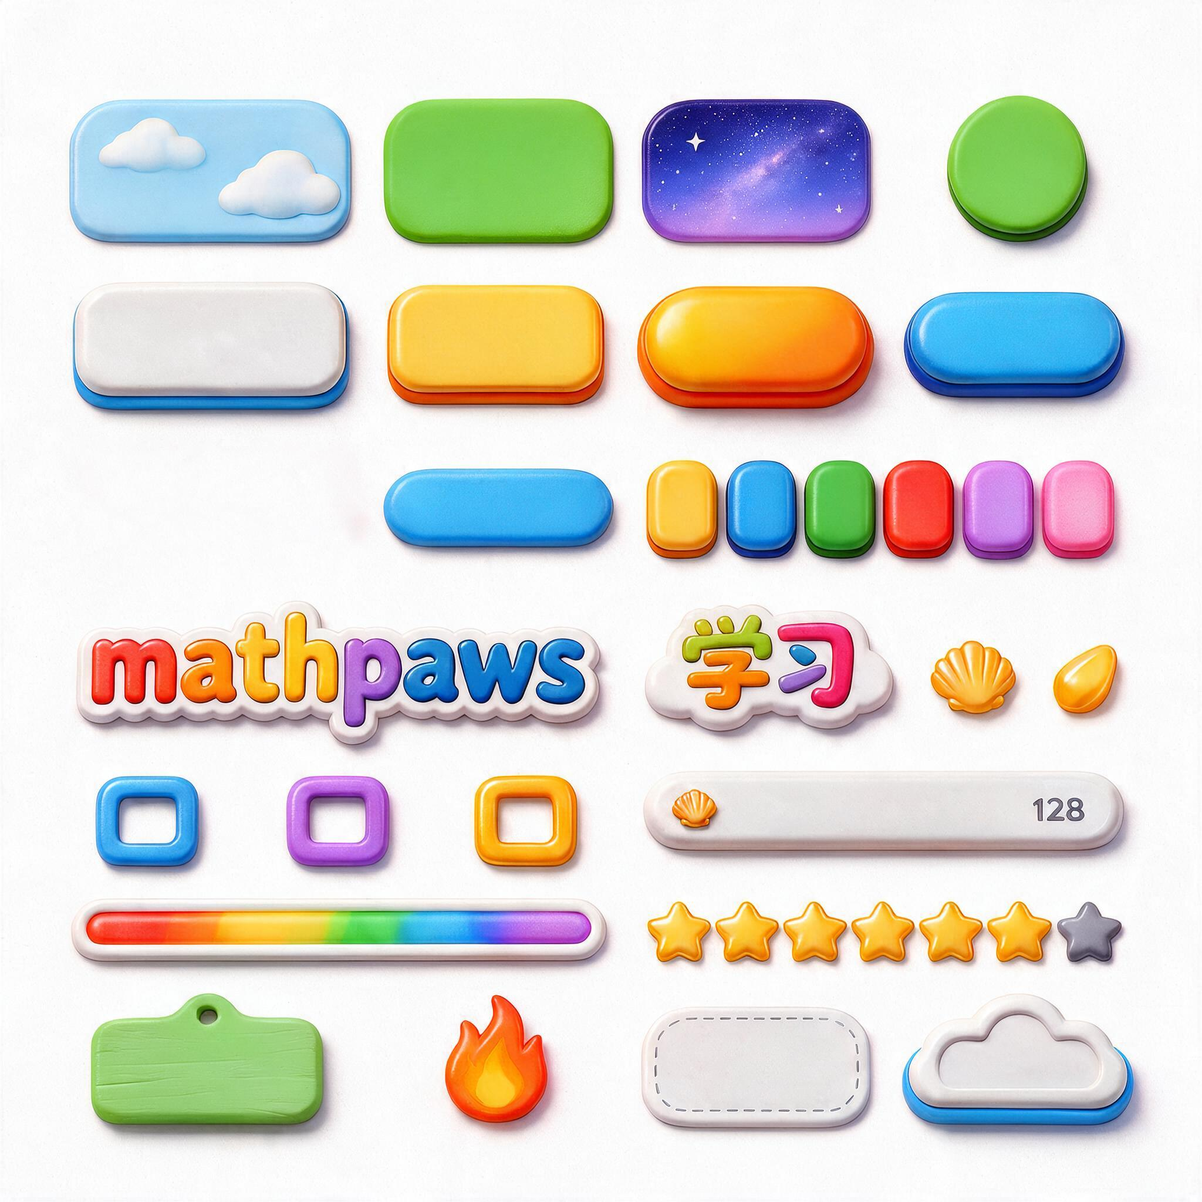
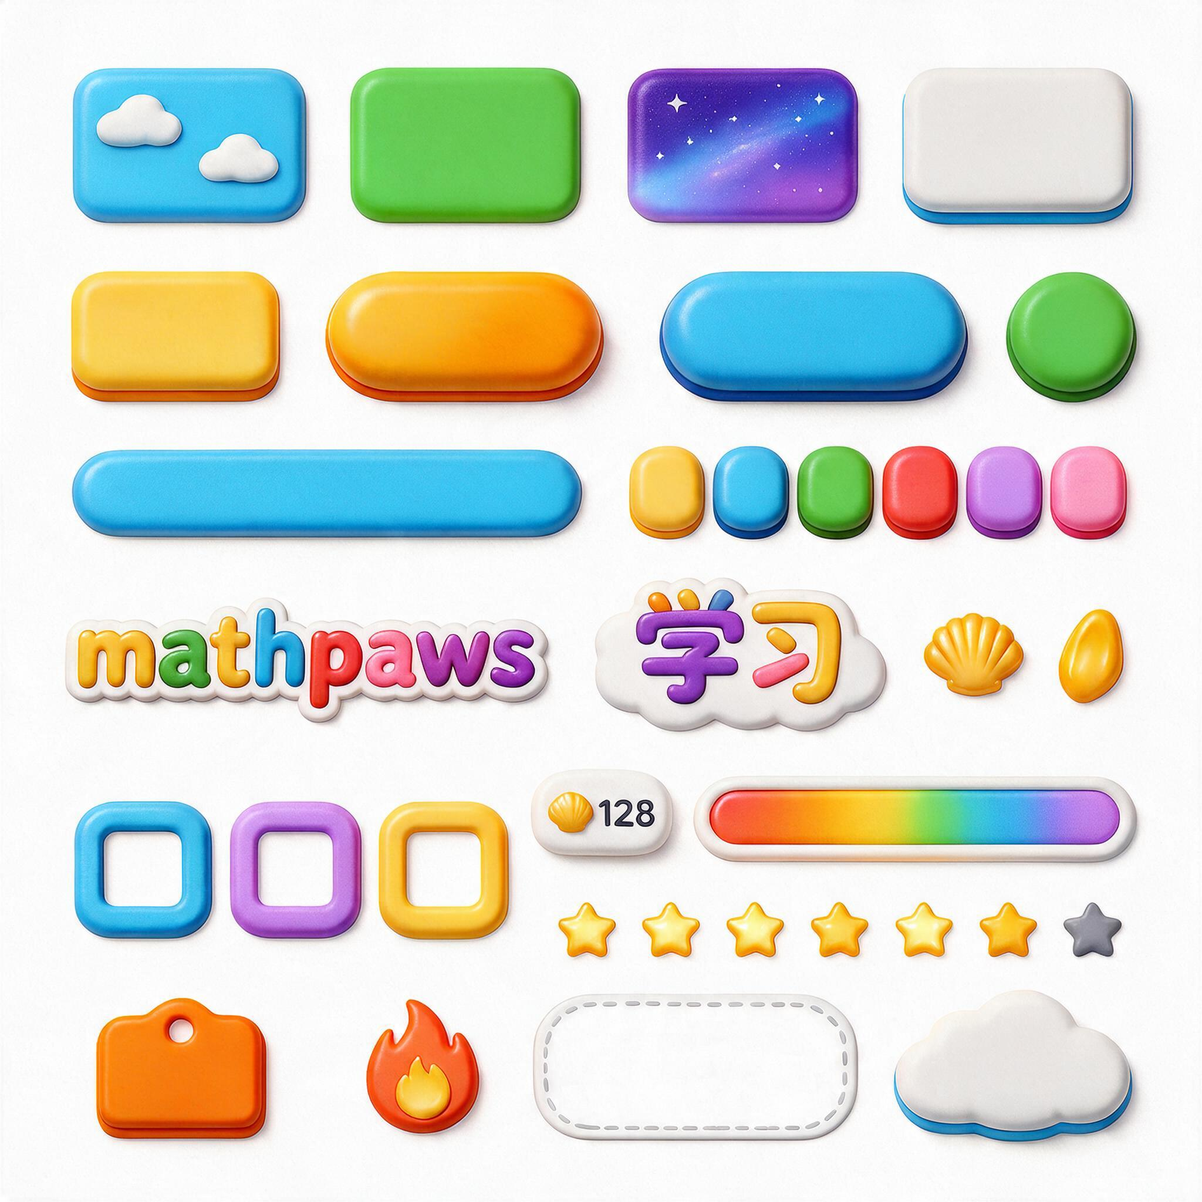
feat(design): style tile v2 无投影（T2I 重抽定稿）+ 阴影语言全链统一
- tile v2：T2I"贴纸式无影"重抽 + 3 精准编辑（进度条平滑渐变/胶囊去蓝边/
  学习单层云底托），22/22 无影、文字全对、匹配度 97.4%、锚力验证通过；
  台账版本化 v2；anchors/rebuild_tile.py 拆层合成工具（过程产物）
- 经验：环境投影是 3D 渲染本能，去影须作生成初始条件，不能靠事后编辑；
  M0 控件本即无影语言，v2 回归正统
- 阴影语言全链统一："无投影，立体感与层级分离由深色薄边承担"——
  _TEMPLATE-page（禁止词加投影类）、elements 7 条目、design-system §1
- P17 存档标 superseded（旧 splash 保留；经验：页面 prompt 不排除 IP 形象）
- P18 home 试点存档（draft）：继承 P4 v2 布局，升级 2338 安全框 +
  v2 无影 + 长期方案拆层约定

diff --git a/design/asset-prompts/anchors/rebuild_tile.py b/design/asset-prompts/anchors/rebuild_tile.py
@@ -1,0 +1,42 @@
+#!/usr/bin/env python3
+"""style tile 重建合成（anchors 工具）。
+
+以拆层产物（decomp.js outDir）的 z0 层为底（重绘白背景，可能自带部分元素），
+按 z 序将其余元素层（透明底 PNG，环境投影已被拆层剥离）按 bbox absolute 回贴，
+产出"元素 + 白底、零环境影"的合成 tile。
+
+用法：
+  design/.venv-art/Scripts/python.exe design/asset-prompts/anchors/rebuild_tile.py \
+    <decomp_outDir> <合成输出.png>
+"""
+import json
+import sys
+from pathlib import Path
+
+from PIL import Image
+
+
+def main():
+    if len(sys.argv) != 3:
+        sys.exit("usage: rebuild_tile.py <decomp_outDir> <out.png>")
+    d = Path(sys.argv[1])
+    out = Path(sys.argv[2])
+    layers = json.loads((d / "layers.json").read_text(encoding="utf-8"))["layers"]
+
+    z0 = layers[0]
+    base = Image.open(d / z0["fileName"]).convert("RGBA")
+    for l in sorted(layers[1:], key=lambda x: x["z"]):
+        bb = (l.get("bounding_box") or {}).get("absolute")
+        if not bb:
+            continue
+        x0, y0, x1, y1 = bb
+        img = Image.open(d / l["fileName"]).convert("RGBA")
+        img = img.resize((x1 - x0, y1 - y0), Image.LANCZOS)
+        base.paste(img, (x0, y0), img)
+    out.parent.mkdir(parents=True, exist_ok=True)
+    base.convert("RGB").save(out)
+    print(f"composite: {base.size[0]}x{base.size[1]}, {len(layers) - 1} layers -> {out}")
+
+
+if __name__ == "__main__":
+    main()

diff --git a/design/asset-prompts/pages/P18-home-page.md b/design/asset-prompts/pages/P18-home-page.md
@@ -1,0 +1,98 @@
+# P18-home-page · 首页原稿重生成（风格锚全管线试点，接替 P17）
+
+- **状态**：**draft**（待用户确认后才可生图——asset-prompts 硬门禁）
+- **类型**：PAGE（整页高保真）
+- **生成方式**：I2I 多参考（seedream_5.0_pro，`watermark:false`，**2338×1536（1.5217:1）**；
+  中央 2048×1536 为 4:3 安全框 x∈[145,2193]，左右各 145px 纯氛围延伸带）
+- **参考图**（5 张，角色分工明确）：
+  1. [`anchors/style-tile.png`](../anchors/style-tile.png)（**v2 无投影**）——**风格唯一基准**；
+  2. [`anchors/palette.png`](../anchors/palette.png)——色调基准；
+  3. [`design/high-fi/home/home.png`](../../high-fi/home/home.png)（P4 v2）——**仅作布局与内容参考**（构图/元素/文字），风格一律以图 1 为准（v2 薄边/无投影覆盖其旧风格）；
+  4. 中性主角 core-ip（locked）：`design/paperdoll-spike/masters/default/dress-default-barefoot.png`——brand-ip 门禁，禁止纯 T2I 画角色；
+  5. 雪球兔 core-ip（locked，本稿要 **s1 幼崽版**）：`design/gen3d-input/pet-rabbit.png`。
+- **元素圣经引用**：`elements/bg-sky.md@v1-draft`、`elements/bg-grass.md@v1-draft`、
+  `elements/panel-card.md@v1-draft`（卡片容器）、`elements/resource-pill.md@v1-draft`
+  （顶栏胶囊）、`elements/scene-prop-farmhouse.md@v1-draft`（圆台质感参照）
+- **拆层约定（长期方案）**：z0 只拆**纯氛围远景**（天空+缓坡草地，不含圆台/任何实体），
+  接入时 cover 全屏（`bleedBlur={false}`）；圆台/主角/雪球兔/按钮/卡片/顶栏/装饰
+  **全部拆为独立层**进 4:3 安全框（坐标 `(x−145)×0.5`），延伸带不得拆出元素层。
+- **接入说明**：顶栏/卡片的容器层接入时评估（位图层 or 维持现状 CSS 毛玻璃——
+  原稿按 panel-card 拟物面板画以表达完整设计意图）；主角实现为 PaperDoll 合成
+  （原稿人物层仅取 bbox 定位锚，图层丢弃）；顶栏数字/头像运行时为动态组件。
+
+## prompt（待确认）
+
+> 参考图分工：图1 style tile（风格基准）/ 图2 色卡 / 图3 旧版首页（仅布局内容参考）/
+> 图4 主角锚点 / 图5 雪球兔锚点。风格、薄边、无投影、取色一律以图1图2为准。
+
+```text
+一张儿童数学学习游戏的首页界面整页高保真稿，宽屏 1.52:1 横版满版构图
+（中央 4:3 区域为安全框，全部关键内容在其中；左右各约 6% 宽为纯天空草地延伸画面）。
+卡通 3D 黏土釉面渲染风格：圆润饱满的造型、哑光软糖质感表面、厚实圆润的描边、
+无投影（立体感与层级分离由深色薄边承担）、糖果色高饱和但不刺眼；
+儿童教育游戏 UI 质感；所有元素的颜色严格对齐参考色卡。
+按钮与卡片的底部立体厚边是紧贴元素下边缘的一条深色薄边（约元素高度的十分之一），
+不是独立的底座层。
+
+【背景】浅蓝天空与缓坡青草地满版铺满（引自 elements/bg-sky.md、bg-grass.md）：
+明快通透的浅蓝渐变天空点缀圆胖白云，底部嫩绿草地缓坡起伏；纯平无立体边、无投影。
+【顶栏】画面上方一条白色圆角厚边面板顶栏（底部浅蓝薄边、无投影）：
+左侧一个圆形头像框（框内是图4主角的笑脸特写），头像右侧深色中文昵称"小朋友"；
+顶栏右侧依次两个白色资源胶囊（左侧金色小星星图标写"连学5天"、右侧金色小贝壳
+图标写"累计12天"，引自 elements/resource-pill.md）；最右侧一个灰蓝色圆形设置
+齿轮图标小钮（底部深色薄边）。
+【左列角色区】画面左侧约五分之二：中央一个浅色椭圆立体小圆台（暖沙黄釉面、
+暖橙薄边，引自 elements/scene-prop-farmhouse.md 质感），圆台上站着图4中那个
+棕色短发、穿浅黄色默认上衣和棕色短裤、光脚的中性卡通小孩——与图4同一人物、
+同一服装、同一脸型头身比，全身正面站立、双手自然下垂、微笑；圆台旁草地上趴着
+图5中那只圆滚滚白色雪球兔的幼崽版本（头更大、身体更小更萌，保持同一物种与
+蓝项圈金色小骨牌、短毛绒质感），乖乖面朝前方；圆台正下方是一个宽大的草绿色
+大胶囊按钮（草绿釉面、底部深绿薄边、无投影），按钮上白色粗体中文"益智乐园"。
+【右侧卡片区】一张大尺寸白色圆角厚边卡片完整展示（底部浅蓝薄边、无投影，
+引自 elements/panel-card.md）：卡片顶部一个暖黄色小胶囊标签写"连学打卡"；
+卡片中央是一个可爱的金色双铃卡通闹钟压在两本彩色卡通书上，周围点缀小星星，
+闹钟下方一行深色中文"已连续学习5天"和五颗金色小星星；卡片底部居中一个草绿色
+小胶囊按钮（底部深绿薄边）写"练口算"；大卡片右侧边缘只露出下一张卡片的蓝色
+圆角窄边（无文字），暗示可左右滑动；大卡片正下方三个小圆点指示器，
+第一个草绿色实心选中态，其余两个浅灰色。
+【装饰】空中零星漂浮金色小星星和小小的加号、等号数学符号（糖果色、哑光釉面、
+无投影），分布稀疏、不遮挡主体。
+【构图约束】顶栏、角色区、卡片区等全部关键内容集中在画面中央 4:3 安全框
+（约中央 87.5% 宽度）内；左右边缘约 6% 宽为纯天空草地延伸区、不得放任何
+关键元素；四周留出安全边距，不贴边、不裁切。
+
+禁止：任何投影和阴影；水印/角标署名/"AI生成"标记；文字贴边、裁切、乱码、缺字；
+返回按钮（首页为根页面）、家长入口、教材切换、换装/背包/学盒/农场/宠物面板的
+任何入口图标；"今日推荐"大标题、底部 Tab 栏、奖杯排行榜、
+"校内提升/学奥数/应用题/选择题/去答题"等旧稿元素；
+把主角画成动物、换性别、换装或改脸型（必须与图4同一中性小孩、光脚默认装）；
+兔子改物种/改配色/摘除蓝项圈金骨牌（必须是图5同一只的幼崽版）；
+白雏鸟或第三个角色；多余按钮；卡片上价格/数字乱码；
+写实/厚涂/水彩/扁平描线风格；棋盘格背景。
+```
+
+## 可见文字清单（design-system §10.5 核对）
+
+| 位置 | 文字 | 说明 |
+|---|---|---|
+| 顶栏昵称 | 小朋友 | 深色圆润体（示例值，运行时动态） |
+| 顶栏胶囊 ×2 | 连学5天 / 累计12天 | 资源胶囊内（示例值） |
+| 左列大按钮 | 益智乐园 | 白色粗体（固定文案整钮） |
+| 卡1 标签 | 连学打卡 | 暖黄胶囊底、深色字 |
+| 卡1 文案 | 已连续学习5天 | 深色小字 |
+| 卡1 小按钮 | 练口算 | 草绿底、白字 |
+
+## 自检清单（生成后验收）
+
+- [ ] 与 style tile v2 并排：薄边/釉面/**无投影**一致（对照 P4 v2 应明显更干净）；
+- [ ] 色板匹配度抽检：≤60 距离 ≥90% 且 >90 ≤1%；
+- [ ] 主角/雪球兔与 core-ip 一致（同人物同服装同脸型 / 幼崽版同物种同项圈骨牌）；
+- [ ] 全部中文逐字核对（6 处文字清单）；布局与 P4 v2 一致（顶栏/左列/卡1/卡2 窄边/圆点）；
+- [ ] 关键内容全部在中央 4:3 安全框内；左右延伸带为纯氛围；
+- [ ] 拆层后 recompose_qc 模式 A 门禁通过；z0 为纯氛围（不含圆台/实体）。
+
+## 变更记录
+
+- 2026-10-10：初稿（draft）。继承 P4 v2 布局（用户已验收），三处升级：
+  2338×1536 安全框、style tile v2 无投影语言、长期方案拆层约定（z0 纯氛围 cover）。
+  接替 P17（splash 试点取消，旧稿保留）。

diff --git a/design/asset-prompts/anchors/style-tile.md b/design/asset-prompts/anchors/style-tile.md
@@ -14,8 +14,11 @@
 错落排布下列 22 个互相独立的 UI 元素样例（最后两格留空），元素之间留白充足、
 互不遮挡、大小基本一致（每个元素约占一格），没有页面结构。
 严格包含下列全部 22 项，每项恰好出现一次，不多不少、不重复。
+**每个元素像独立的立体贴纸一样平放在纯白背景上：底部只有紧贴下边缘的
+深色薄边，薄边之下直接是纯白背景，没有任何投影、接触阴影或环境光遮蔽。**
 整体为卡通 3D 黏土釉面渲染风格：圆润饱满的造型、哑光软糖质感表面、厚实圆润的
-描边、柔和的软阴影与接触阴影、糖果色高饱和但不刺眼；儿童教育游戏 UI 质感；
+描边、**无投影（立体感与层级分离由深色薄边承担）**、糖果色高饱和但不刺眼；
+儿童教育游戏 UI 质感；
 所有元素的颜色严格对齐参考色卡（天空蓝、阳光黄、橙、草绿、红、紫、粉及其
 对应深色档）。
 按钮与卡片的底部立体厚边是紧贴元素下边缘的一条深色薄边（约元素高度的
@@ -24,14 +27,14 @@
 【背景样 3 枚】均为纯平圆角色块、无立体底边：浅蓝天空（带两朵圆胖白云的小块
 天空）；嫩绿草地（圆角小块草地）；梦幻星空（紫蓝色星空小块，点缀小星星与
 柔和银河光带，梦幻不阴沉）。
-【容器样 2 枚】白色圆角厚边面板（底部带浅蓝立体厚边、柔和投影）；
+【容器样 2 枚】白色圆角厚边面板（底部带浅蓝立体薄边、无投影）；
 浅黄色圆角卡片（糖果立体底边）。
 【按钮样 4 枚 + 1 组】金黄色大胶囊主按钮（橙黄渐变釉面、底部深橙立体厚边）；
 天蓝色中号胶囊次按钮（底部深蓝立体厚边）；草绿色圆形小工具按钮
 （底部深绿立体厚边）；天蓝色长条圆角标签按钮；一排 6 个同款小胶囊按钮
 （颜色依次为黄、蓝、绿、红、紫、粉，造型完全一致仅颜色不同）。
-【标题样 2 枚】彩色标题艺术字"mathpaws"（字母圆润饱满、厚白描边、柔和投影）；
-云朵形白色底托上的彩色中文艺术字"学习"（厚描边、柔和投影）。
+【标题样 2 枚】彩色标题艺术字"mathpaws"（字母圆润饱满、厚白描边、无投影）；
+云朵形白色底托上的彩色中文艺术字"学习"（厚描边、无投影）。
 【图标样 2 枚 + 1 组】金色小贝壳图标（圆润釉面光泽）；金黄色玉米种子图标
 （泪滴形、光滑釉面）；一组 3 个稀有度边框（蓝、紫、金三色的圆角方形镂空框，
 造型一致仅颜色不同）。
@@ -45,7 +48,8 @@
 
 禁止：页面布局（不要顶栏/内容区/底栏等页面结构）、完整场景画面、
 角色或动物形象、文字水印（标题艺术字除外）、写实/厚涂/水彩/扁平描线风格、
-棋盘格背景、"AI生成"标记。
+棋盘格背景、"AI生成"标记、
+**任何投影、接触阴影、环境光遮蔽（AO）、灰色晕染过渡**。
 ```
 
 ## 自检清单（生成后按方案 §2.1 五维度验收）
@@ -67,7 +71,17 @@
 - 2026-10-10：五维验收记录——内容完备 22/22；色板匹配 ≤60 距离 97.0%、
   >90 为 0%（合格线据此校准：≤60 ≥90% 且 >90 ≤1%）；构图中立；2048² 无水印、
   文字（mathpaws/学习/128）全对；锚力验证（panel）薄边/质感/取色/中文均正确传递。
-- 2026-10-10：产出两条风格判定规则（入 `elements/title-art.md` 与
+- 2026-10-10：产出风格判定规则（入 `elements/title-art.md` 与
   `_TEMPLATE-page.md`）：①标题有底托时去描边（禁双层白）；
-  ②分离手段按层级分配（容器薄边、浮层投影，同画面不出现两条同色边）。
-- 中间产物（v3-v8 及 3 次锚力 panel）留存于 `_tmp/2026-10-10/`（gitignored）。
+  ②分离手段按层级分配（v2 修订：全站无投影，浮层用薄边/色差分离）。
+- **2026-10-10：v2（现行）——去投影修订（用户裁定）**：P17 拆层比对揭示
+  生成稿投影过重（拆层剥离投影后视觉更干净，且 M0 既有标准控件本就是"无投影"
+  语言——v1 的"柔和软阴影"为异类，v2 回归正统）。过程：I2I 编辑去影×2 失败
+  （环境投影是 3D 渲染本能，非可剥离图层）→ 拆层重合成（拆出 16 层无影但
+  z0 残留 6 元素带影，拆层数量限制）→ **T2I 重抽"贴纸式无影"prompt 一次达成**
+  （prompt 加"立体贴纸平放、薄边之下纯白背景、无任何投影/接触阴影/AO"）+
+  3 处精准编辑（进度条分段色块→平滑渐变、胶囊去蓝色边框、学习底托双层云→单层）。
+  终版：22/22 齐全、无影、文字（mathpaws/学习/128）全对、星星 7 颗、
+  色板匹配 ≤60 距离 97.4%、>90 为 0%。`anchors/style-tile.png` 现为 v2。
+- 中间产物（v1 带影稿、v2/v3 编辑版、拆层合成版及历次锚力 panel）留存
+  `_tmp/2026-10-10/` 与 `_tmp/decomp-style-tile/`（gitignored）。

diff --git a/design/asset-prompts/_TEMPLATE-page.md b/design/asset-prompts/_TEMPLATE-page.md
@@ -11,7 +11,7 @@
 
 ```text
 卡通 3D 黏土釉面渲染风格：圆润饱满的造型、哑光软糖质感表面、厚实圆润的描边、
-柔和的软阴影与接触阴影、糖果色高饱和但不刺眼；儿童教育游戏 UI 质感；
+无投影，立体感与层级分离由深色薄边承担、糖果色高饱和但不刺眼；儿童教育游戏 UI 质感；
 所有元素的颜色严格对齐参考色卡（天空蓝、阳光黄、橙、草绿、红、紫、粉及其对应深色档）。
 ```
 
@@ -23,7 +23,8 @@
 2. 标题艺术字：无底托时用白描边与背景分离；有底托时去描边、文字直接坐在底托上
    （禁止描边与底托同色的"双层白"）。
 3. 分离手段按层级分配：容器（面板/卡片）用底部薄边；浮于容器上的元素
-   （云朵底托、徽章、挂牌）用柔和投影；同一画面内不出现两条同色边。
+   （云朵底托、徽章、挂牌）用薄边或色差分离；**全站无投影（2026-10-10 裁定）**；
+   同一画面内不出现两条同色边。
 4. 跨页元素（宝箱/胶囊/进度条/背景/标题等）的描述引自 elements/ 圣经对应条目
    并注明版本，不自行改写。
 ```
@@ -32,7 +33,7 @@
 
 ```text
 与浅色/天空色主基调冲突的大面积深色（深蓝夜空主导；星空场景除外，
-其语言引自 elements/bg-starry.md）、写实/厚涂/水彩/扁平描线风格、
+其语言引自 elements/bg-starry.md）、**任何投影和阴影**、写实/厚涂/水彩/扁平描线风格、
 文字水印、"AI生成"标记、棋盘格背景、角色或动物形象
 （角色走 core-ip 图锚通道，不经页面 prompt 文字描述）。
 ```

diff --git a/design/asset-prompts/anchors/README.md b/design/asset-prompts/anchors/README.md
@@ -6,7 +6,7 @@
 
 | 锚 | 文件 | 来源 | 版本 | 启用日期 | 用途 |
 |---|---|---|---|---|---|
-| style tile | [style-tile.png](style-tile.png) | seedream_5.0_pro I2I（参考 palette.png），1 生成 + 5 精准编辑；prompt 存档 [style-tile.md](style-tile.md) | **v1** | 2026-10-10 | 全站 UI 元素语言锚（十类 22 枚 + 2 组：造型/质感/薄边/标题/图标形态） |
+| style tile | [style-tile.png](style-tile.png) | seedream_5.0_pro I2I（参考 palette.png）；prompt 存档 [style-tile.md](style-tile.md) | **v2**（2026-10-10 去投影：T2I 重抽"贴纸式无影"prompt + 3 处精准编辑（进度条平滑渐变/胶囊去蓝边/学习单层云底托）；v1 带影稿、编辑版、拆层合成版均留 `_tmp/`；与 M0 标准控件"无投影"语言统一） | 2026-10-10 | 全站 UI 元素语言锚（十类 22 枚 + 2 组：造型/釉面/薄边/标题/图标形态，**无投影**） |
 | 色卡 | [palette.png](palette.png) | [gen_palette.py](gen_palette.py) 生成（PIL），色值与 `packages/ui/src/tokens.ts` C 同源（tokens.test.ts 断言守护） | **v1** | 2026-10-08 | 全站色调锚（19 色 I2I 参考） |
 
 ## 配套工具

diff --git a/design/asset-prompts/elements/panel-card.md b/design/asset-prompts/elements/panel-card.md
@@ -10,14 +10,14 @@
 
 ```text
 白色（或浅色）圆角厚边面板：大圆角、哑光釉面、底部一条深色薄边
-（约面板高度的十分之一、紧贴下边缘，非独立底座层）、柔和投影；
+（约面板高度的十分之一、紧贴下边缘，非独立底座层）、无投影；
 卡片为同语言的小尺寸变体。卡通 3D 黏土质感。
 ```
 
 ## 使用要点
 
 - **分层铁律**：面板/卡片是"容器"——用底部薄边（颜色线索）分离；
-  浮于其上的元素（云朵底托/徽章/挂牌）用柔和投影（深度线索）；
-  同一画面内不出现两条同色边（见 [title-art.md](title-art.md) 分层规则）；
+  浮于其上的元素（云朵底托/徽章/挂牌）用薄边或色差分离（**全站无投影**，
+  2026-10-10 裁定）；同一画面内不出现两条同色边（见 [title-art.md](title-art.md) 分层规则）；
 - 特殊造型容器（卷轴/展台/舞台）为页面定制资产，不走本条；
 - CSS 毛玻璃容器（topbar/轻量卡片）是代码语言，不生图、不适用本条。

diff --git a/design/asset-prompts/pages/P17-splash-page.md b/design/asset-prompts/pages/P17-splash-page.md
@@ -1,6 +1,10 @@
 # P17-splash-page · 启动页原稿重生成（风格锚全管线试点）
 
-- **状态**：**draft**（待用户确认后才可生图——asset-prompts 硬门禁）
+- **状态**：**superseded**（2026-10-10 用户裁定：**旧 splash 稿符合预期保留，取消重生成**；
+  本稿不采用。经验：①页面 prompt 不得排除 IP 形象（本稿漏了白雏鸟，旧稿 bird 层是
+  正确设计）——角色走 core-ip 图锚通道而非"禁止角色"；②生成稿与拆层版的阴影差异
+  揭示 tile 阴影语言过重，触发 tile v2 去阴影修订。试点页改为 home（P18）。
+  生成稿与拆层产物留存 `_tmp/2026-10-10/` 与 `_tmp/decomp-splash-v2/` 备查）
 - **类型**：PAGE（整页高保真）
 - **生成方式**：I2I（seedream_5.0_pro，`watermark:false`，**2338×1536（1.5217:1）**——
   2026-10-10 真机 bleed 适配定稿：中央 2048×1536 为 4:3 安全框（逻辑舞台 1024×768），

diff --git a/design/asset-prompts/elements/scene-prop-farmhouse.md b/design/asset-prompts/elements/scene-prop-farmhouse.md
@@ -11,12 +11,12 @@
 
 ```text
 圆润农场小屋：厚圆角造型、哑光釉面、明快糖果色（屋顶与墙身取色对齐色卡）、
-柔和接触阴影；与 UI 面板同一卡通 3D 黏土质感语言，不写实、不做旧。
+无投影；与 UI 面板同一卡通 3D 黏土质感语言，不写实、不做旧。
 ```
 
 ## 使用要点
 
-- **质感同源**：场景道具必须与 UI 元素同一质感语言（黏土釉面、圆角、软阴影），
+- **质感同源**：场景道具必须与 UI 元素同一质感语言（黏土釉面、圆角、薄边、无投影），
   这是"同一世界观"的落地（design-system §1 核心原则）；
 - 其他道具（栅栏/招牌/稻草人/作物架）参照本条改写主体名词与功能细节，
   质感段落不变；

diff --git a/design/asset-prompts/elements/title-art.md b/design/asset-prompts/elements/title-art.md
@@ -9,7 +9,7 @@
 
 ```text
 彩色标题艺术字"<文字>"：字母/汉字圆润饱满、糖果色（每字一色、取色对齐色卡）、
-哑光釉面质感、柔和投影。
+哑光釉面质感、无投影。
 ```
 
 ## 分离规则（铁律）
@@ -22,8 +22,8 @@
 ## 分层规则（通用规则 2 的条目落点）
 
 容器（面板/卡片）用底部薄边（颜色线索）；浮于容器上的元素（云朵底托、
-徽章、挂牌）用柔和投影（深度线索）；**同一画面内不出现两条同色边**
-（2026-10-10 云朵蓝边撞面板蓝边案例）。
+徽章、挂牌）用薄边或色差分离（**全站无投影**，2026-10-10 裁定）；
+**同一画面内不出现两条同色边**（2026-10-10 云朵蓝边撞面板蓝边案例）。
 
 ## 中文渲染
 

diff --git a/design/asset-prompts/elements/golden-chest.md b/design/asset-prompts/elements/golden-chest.md
@@ -9,7 +9,7 @@
 
 ```text
 金色圆润宝箱：箱身饱满圆角、哑光釉面金色（sun/orange 系）、箱盖微鼓带弧度、
-圆润金属扣件与包边、柔和接触阴影；卡通 3D 黏土釉面质感，不写实、不做旧、
+圆润金属扣件与包边、无投影；卡通 3D 黏土釉面质感，不写实、不做旧、
 无尖锐棱角。
 ```
 

diff --git a/design/asset-prompts/elements/resource-pill.md b/design/asset-prompts/elements/resource-pill.md
@@ -9,7 +9,7 @@
 
 ```text
 白色资源胶囊：长圆角胶囊、白色釉面、左侧圆润资源图标（贝壳/食物等）、
-右侧深色数字、底部浅色薄边、柔和投影；卡通 3D 黏土釉面质感。
+右侧深色数字、底部浅色薄边、无投影；卡通 3D 黏土釉面质感。
 ```
 
 ## 使用要点
